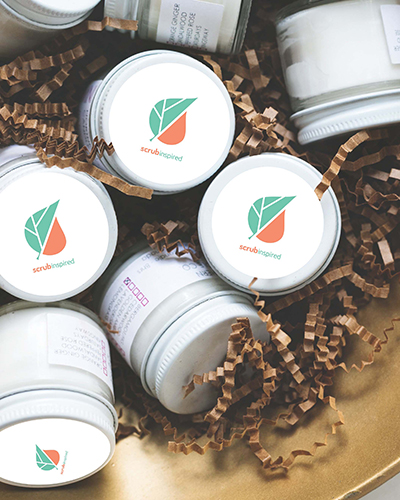
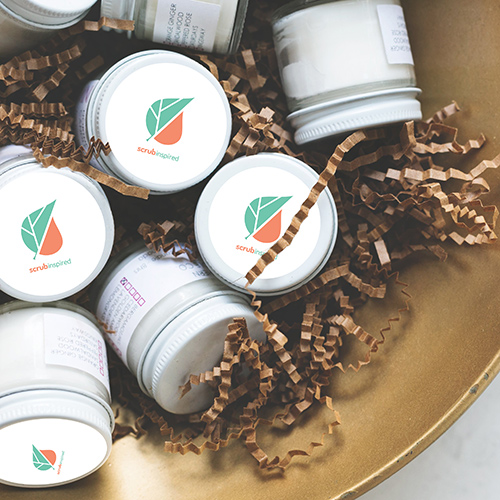
Replace the homepage image and correct spelling errors
The hompeage image for scrub inspired was replaced. Spelling and grammatical errors were corrected

diff --git a/recipe-app.html b/recipe-app.html
@@ -4,7 +4,7 @@ title: Bluebowl · Portfolio
 meta: Recipe and mealtime prep app for millenials.
 heading1: Bluebowl
 subHeading1: The app designed created based on weekend conversations with friends, is an effective meal-planning app for single/nuclear families, homes with roommates to make for easy, simple cooking.
-process1: The app features AR scanning of ingredients, to generate recipes based on selected diets/cuisines. People living with roommates can regularly create schedules to take turns at cooking. Voting amongst them helps with identifying the meal of the day. The app also features automatic grocery list creation based on the meal plans and recipes. This also helps with reducing waste by buying groceries required for the week and ensuring they don’t go to waste.
+process1: The app features scanning of ingredients, to generate recipes based on selected diets/cuisines. People living with roommates can regularly create schedules to take turns at cooking. Voting amongst them helps with identifying the meal of the day. The app also features automatic grocery list creation based on the meal plans and recipes. This also helps with reducing waste by buying groceries required for the week and ensuring they don’t go to waste.
 text1: The recipes are also suggested based on the expiry dates of products to ensure zero/negligible waste. Oh, I almost forgot, the app can be used by grocery stores to provide customized groceries to the consumers for a convenient shopping experience. (Please sponsor us!)
 img1: ../images/bluebowl-app-brand.jpg
 figureCaption1: Bluebowl app logo and colours
@@ -18,7 +18,7 @@ text2: Testing with users along the way also helped in identifying pain and fric
 img3: ../images/bluebowl-app.jpg
 figureCaption3: Integration with grocery stores
 heading3: Effective shopping and <br>cooking experience
-subHeading3: As the app's audience were nuclear families, college students with roommates, the need for the members of the household to have an equal say was vital. To address the problem, members can decide on favourite recipes for the day, vote for the best recipe and the person responsible for cooking that day (Ofcourse, you take turns and we will send reminders!) will be able to add ingredients to the cart.
+subHeading3: As the app's audience were nuclear families, college students with roommates, the need for the members of the household to have an equal say was vital. To address the problem, members can decide on favourite recipes for the day, vote for the best recipe and the person responsible for cooking that day (Of course, you take turns and we will send reminders!) will be able to add ingredients to the cart.
 process3: As it automatically generates a shopping list, on the way back from work/school, groceries can be picked up or wait for it... order it from instacart.
 text3: With integrated shopping experience, the app's strategy can be used by grocery stores to customize the experiences for their users. With digital refridgerators, the shopping list can also be shared on a digital screen.
 img4: ../images/bluebowl-app-1.jpg

diff --git a/scrub-inspired.html b/scrub-inspired.html
@@ -3,8 +3,8 @@ layout: default
 title: Scrub Inspired Rebrand · Portfolio
 meta: A rebrand project, for a skincare brand, Scrub Inspired
 heading1: Scrub Inspired - Rebrand
-subHeading1: A rebrand project, for a skincare brand, Scrub Inspired. The project was part of a school assignment, that involved rebranding a local entrepreneur. With the help of warm, generous client, a.k.a Scrub Inspired business owner, working on the project was an incredible learning experience.
-process1: Creating complete brand guidelines for the brand, from marketing collateral to digital website. Following thorough research on the brand’s market, it’s target audience, competitors, designing a logo and brand to represent the brand’s values was a thrilling experience(slightly nerve-wracking too! My first time taking on a rebrand).
+subHeading1: A rebrand project, for a skincare brand, Scrub Inspired. The project was part of a school assignment, that involved rebranding a local entrepreneur. With the help of a warm, generous client, a.k.a Scrub Inspired business owner, working on the project was an incredible learning experience.
+process1: Creating complete brand guidelines for the brand, from marketing collateral to digital website. Following thorough research on the brand’s market, it’s target audience, competitors, designing a logo and brand to represent the brand’s values was a thrilling experience (slightly nerve-wracking too! My first time taking on a rebrand).
 text1: The logo for the brand was created to reflect a fun, eco-friendly, fresh experience for its users.
 img1: ../images/scrub-image-01.png
 figureCaption1: Logo process
@@ -25,7 +25,7 @@ figureCaption4: Digital design
 heading4: Digital branding
 subHeading4: The brand operated purely through online orders(at the time of rebrand, not anymore). To provide a clean and easy shopping experience, a responsive website design was created.
 process4: Digital design for facebook, instagram and social media targeting their audience base was designed to provide a wholistic branding experience for the clients and the brand's users.
-text4: Branding and digital marketing collateral for the brand was highlighted to enhance sales and help grow the brand. As the target audience was predominantely females (#bossbabes), creating a refreshing branding was essential to the product's success.
+text4: Branding and digital marketing collateral for the brand was highlighted to enhance sales and help grow the brand. As the target audience was predominantly females (#bossbabes), creating a refreshing branding was essential to the product's success.
 ---
 
 <body>

diff --git a/anna-belanger.html b/anna-belanger.html
@@ -3,7 +3,7 @@ layout: default
 title: Anna Bélanger & Associates • Portfolio
 meta: A website redesign project, for a massage therapy service located in Ottawa, Canada.
 heading1: Anna Bélanger & Associates -<br> Website redesign
-subHeading1: A client project that helped me work on Shopify Themes, and work on web design and dev skills. Having experienced Anna Belanger and Associates services first-hand and meeting the warm and ever-enthusiastic #bosswoman, Anna,  behind the brand helped with understanding and creating a website for them.
+subHeading1: A client project that involved working with Shopify Themes, and work on web design and dev skills. Having experienced their services earlier, meeting the warm and ever-enthusiastic #bosswoman, Anna,  behind the brand helped with understanding and creating a website for them.
 process1: Redesigning the website to make it a representation of their brand, a symbol of fertility, warmth and relaxation. Working on Shopify theme (they were already part of the Shopify family), manipulating the theme’s code by understanding Liquid, their open sourced templating language, learning on the job, to create a wholesome experience, proved to be a wonderful learning experience.
 img1: ../images/anna.png
 figureCaption1: Home screen of the website

diff --git a/_includes/contact-grid.html b/_includes/contact-grid.html
@@ -1,10 +1,11 @@
-<div itemscope itemtype="http://schema.org/About" class="ib push card bg-image pad-t-2">
+<div itemscope itemtype="http://schema.org/About" class="ib push case-study-card bg-image pad-t-2">
   <div class="pad-t-2">
     <h3 itemprop="title" class="giga bold gutter pad-t-2 push-1-2">{{include.data.title}}</h3>
-    <p itemprop="description" class="milli gutter push max-length">{{include.data.text}}</p>
+    <p itemprop="description" class="milli gutter push max-length">{{include.data.text1}}</p>
+    <p itemprop="description" class="milli gutter push max-length">{{include.data.text2}}</p>
     <h3 itemprop="title" class="giga bold gutter push-1-2">Contact</h3>
     <div class="gutter pad-top-1-2">
-      <p class="kilo push-1-2">Want to collaborate and create amazing projects?</p>
+      <p class="milli push-1-2">Want to collaborate and create amazing projects?</p>
       <a aria-label="Email Shrinidhi Sridhar" itemprop="email" class="milli btn btn-ghost " href="mailto:reachme@shrinidhi.design">{{include.data.email}}</a>
     </div>
   </div>

diff --git a/_includes/projects-navigation.html b/_includes/projects-navigation.html
@@ -1,0 +1,10 @@
+<div class="project-footer">
+
+  <ul class="list-group-inline">
+    <li class="list-group-item gutter milli"><a href="{{site.baseurl}}/scrub-inspired">Scrub Inspired</a></li>
+    <li class="list-group-item gutter milli"><a href="{{site.baseurl}}/recipe-app">Bluebowl App</a></li>
+    <li class="list-group-item gutter milli"><a href="{{site.baseurl}}/anna-belanger">Anna Bélanger & Associates</a></li>
+    <li class="list-group-item gutter milli"><a href="{{site.baseurl}}/influenza">Influenza App</a></li>
+  </ul>
+
+</div>

diff --git a/css/main.css b/css/main.css
@@ -88,7 +88,7 @@ a:focus {
 
 .case-study-card {
   position: absolute;
-  top: -7em;
+  top: -6em;
 }
 
 .transparent {
@@ -116,6 +116,14 @@ a:focus {
   left: 85%;
 }
 
+.project-footer {
+  position: absolute;
+  bottom: 2%;
+}
+
+.footer {
+  display: none;
+}
 
 @keyframes jump {
 
@@ -165,7 +173,7 @@ a:focus {
   }
 
   .img1 {
-    background-image: url("../images/scrub-label.jpg");
+    background-image: url("../images/stationary.jpg");
   }
 
   .img2 {
